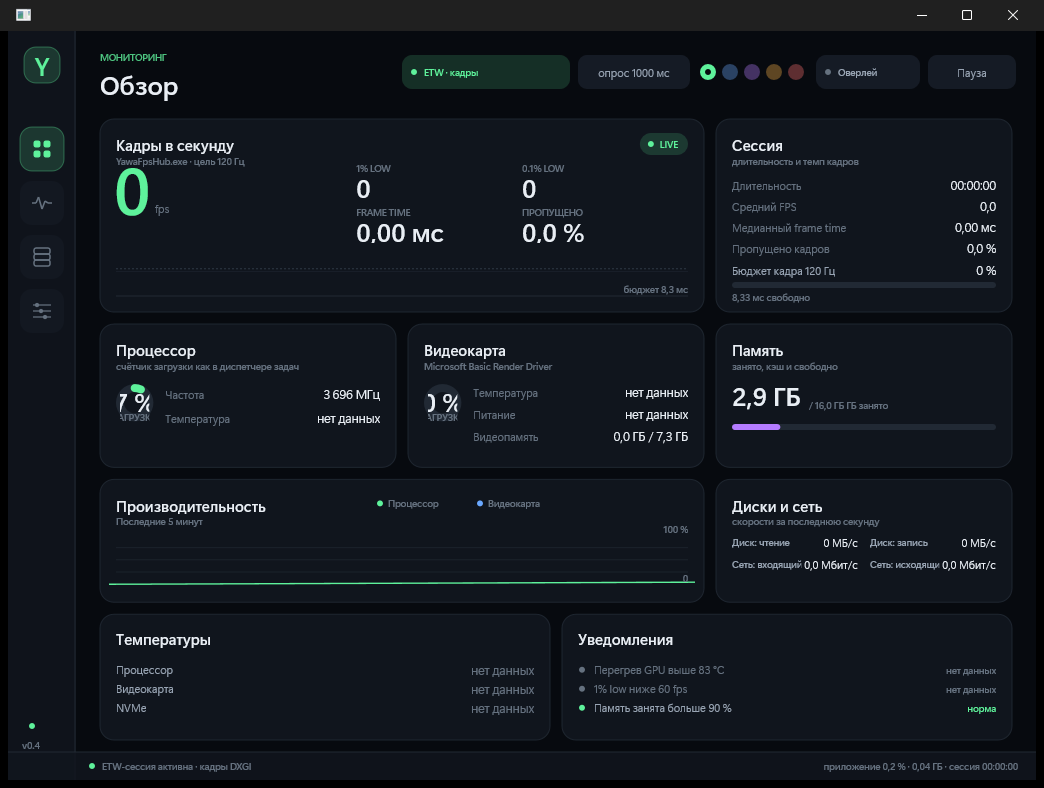
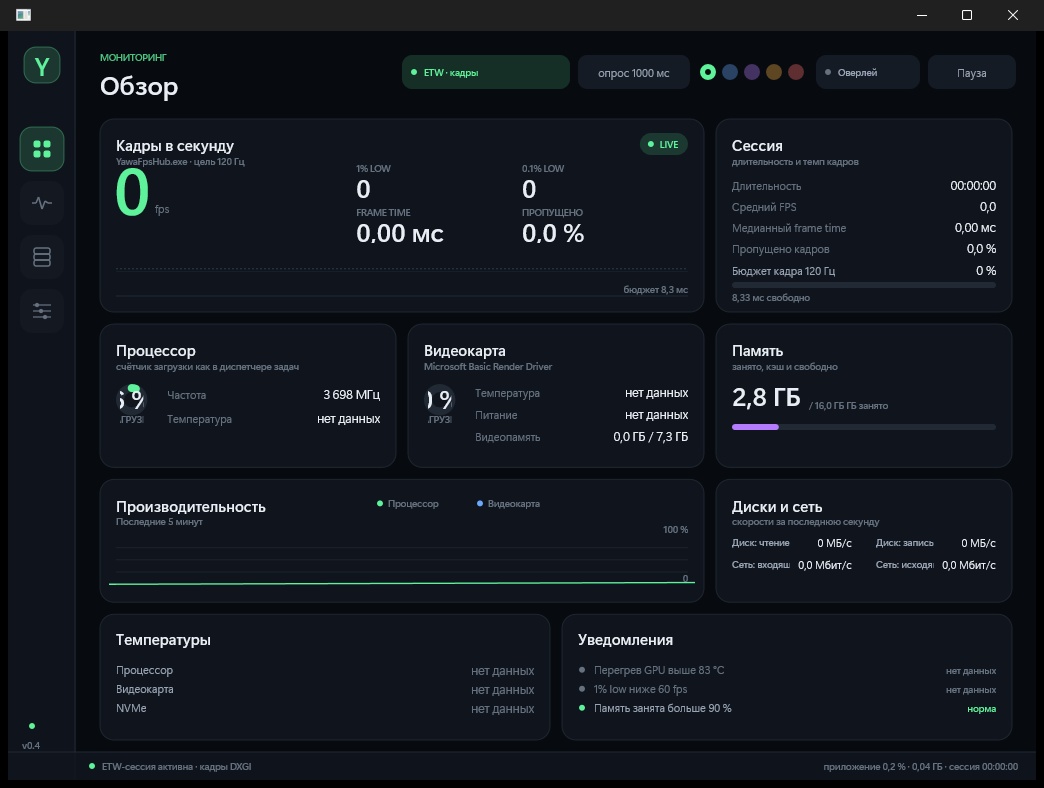
UI: радиус кольца из высоты карточки, README про четыре экрана

diff --git a/app/ui/dashboard_view.cpp b/app/ui/dashboard_view.cpp
@@ -196,9 +196,15 @@ void drawSessionCard(Renderer& renderer, const AppModel& model, const Theme& the
         Rect{ inner.left, barTop + 28.0f, inner.right, barTop + 42.0f }, TextRole::Tiny, theme.textFaint);
 }
 
+// Радиус кольца считается от места под карточку: два радиуса плюс подпись снизу.
+float gaugeRadius(const Rect& area)
+{
+    return std::clamp((area.height() - 22.0f) * 0.5f, 16.0f, 40.0f);
+}
+
 void drawGaugeCard(Renderer& renderer, const Rect& inner, double load, const Color& color, const Theme& theme)
 {
-    const float radius = std::min(42.0f, (inner.bottom - inner.top - 52.0f) * 0.5f);
+    const float radius = gaugeRadius(inner);
     const float centerX = inner.left + radius + 4.0f;
     const float centerY = inner.top + 12.0f + radius;
     drawGauge(renderer, centerX, centerY, radius, static_cast<float>(load / 100.0), color, theme.line,
@@ -217,7 +223,7 @@ void drawCpuCard(Renderer& renderer, const AppModel& model, const Theme& theme, 
     const double load = model.store.value(MetricId::CpuLoad);
     drawGaugeCard(renderer, Rect{ inner.left, top, inner.right, inner.bottom }, load, theme.cpu, theme);
 
-    const float radius = std::min(40.0f, (inner.bottom - top - 44.0f) * 0.5f);
+    const float radius = gaugeRadius(Rect{ inner.left, top, inner.right, inner.bottom });
     const float rowsLeft = inner.left + radius * 2.0f + 20.0f;
     float rowTop = top + 10.0f;
     const std::array<std::pair<std::wstring, std::wstring>, 2> rows{
@@ -250,7 +256,7 @@ void drawGpuCard(Renderer& renderer, const AppModel& model, const Theme& theme, 
     const double load = model.store.value(MetricId::GpuLoad);
     drawGaugeCard(renderer, Rect{ inner.left, top, inner.right, inner.bottom }, load, theme.gpu, theme);
 
-    const float radius = std::min(40.0f, (inner.bottom - top - 44.0f) * 0.5f);
+    const float radius = gaugeRadius(Rect{ inner.left, top, inner.right, inner.bottom });
     const float rowsLeft = inner.left + radius * 2.0f + 20.0f;
     float rowTop = top + 8.0f;
     const double vramTotal = model.store.value(MetricId::VramTotal);

diff --git a/README.md b/README.md
@@ -24,7 +24,8 @@
 
 ![Обзор](docs/screenshots/dashboard.png)
 
-Экраны «Датчики» и «Настройки» — `docs/screenshots/sensors.png`, `docs/screenshots/settings.png`.
+Остальные экраны — `docs/screenshots/sensors.png`, `docs/screenshots/overlay.png`,
+`docs/screenshots/settings.png`.
 
 Оверлей — настоящее layered-окно поверх игры, пять стилей, четыре позиции:
 
@@ -83,7 +84,7 @@ cmake --build build --config Release
   справа переключают акцент интерфейса;
 - `YawaFpsHub.exe --smoke` — самопроверка: окно живёт 8 секунд, затем закрывается само
   (`--smoke=22` задаёт своё время, `--overlay` сразу показывает наложение);
-- `--view=sensors|settings` — стартовый экран (используется в CI для скриншотов);
+- `--view=dashboard|sensors|overlay|settings` — стартовый экран (используется в CI для скриншотов);
 - `--overlay-shots=<папка>` — сохраняет PNG всех пяти стилей оверлея (диагностика и демо).
 
 ## Структура
